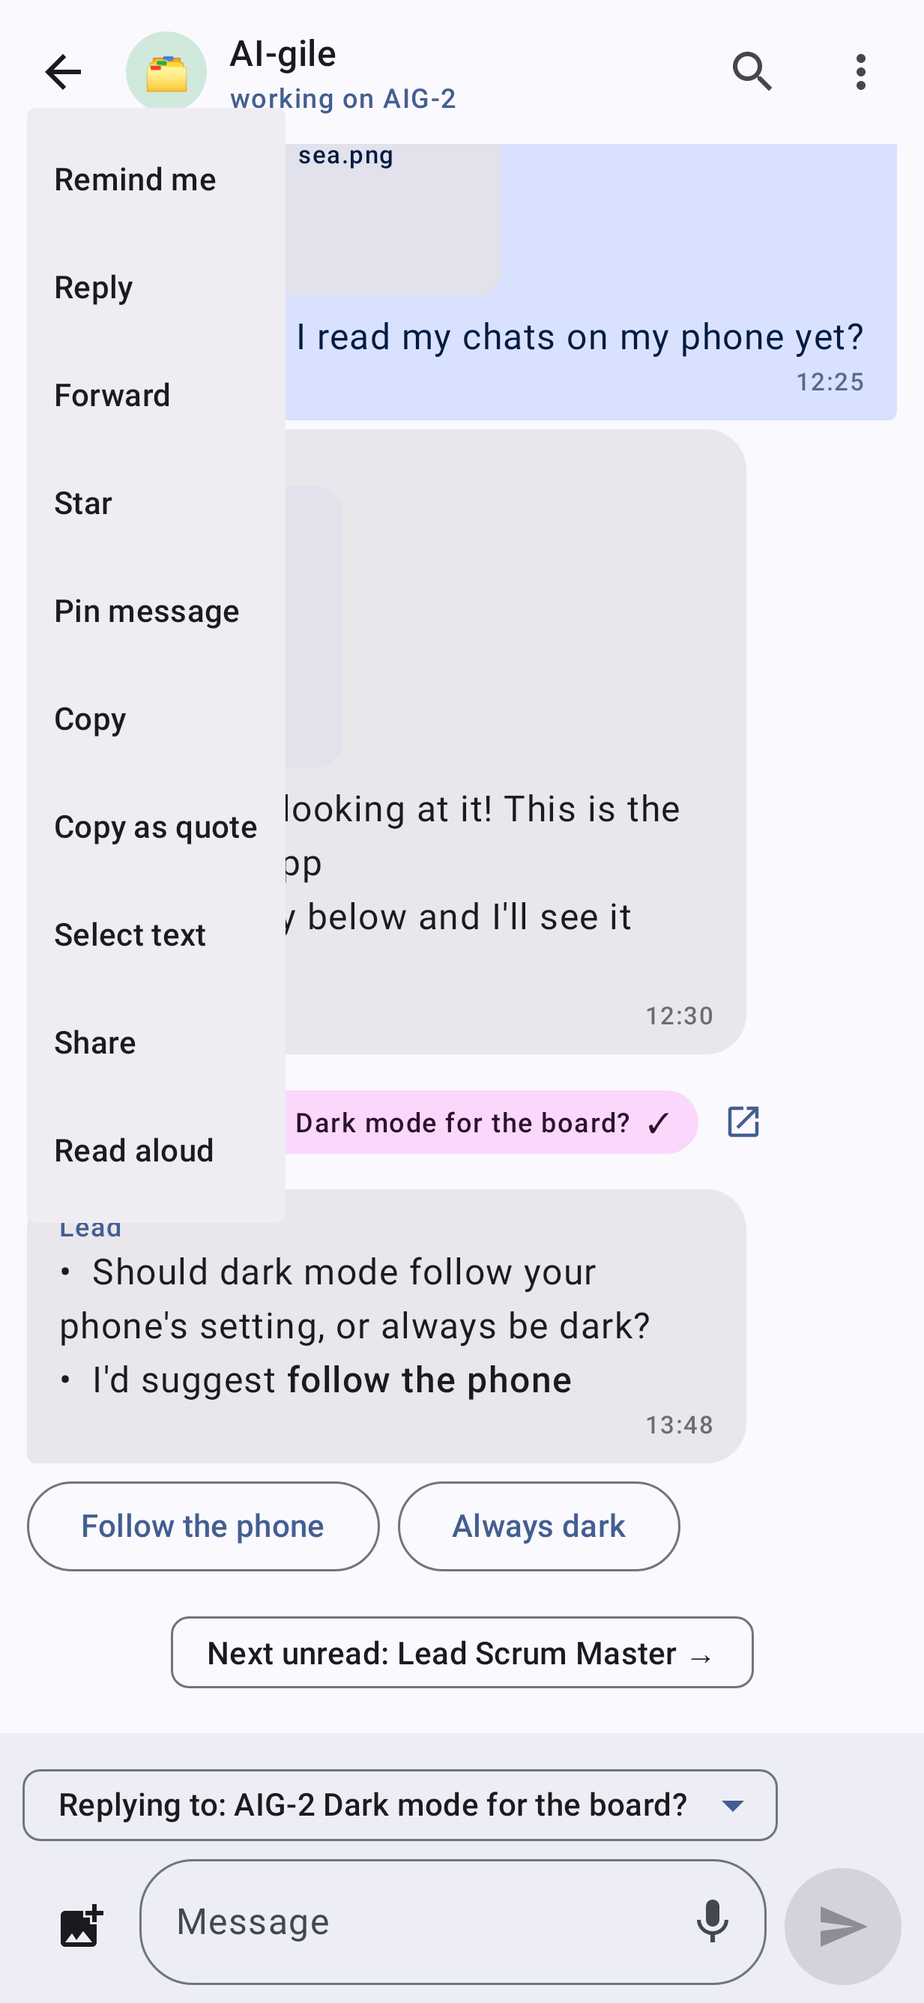
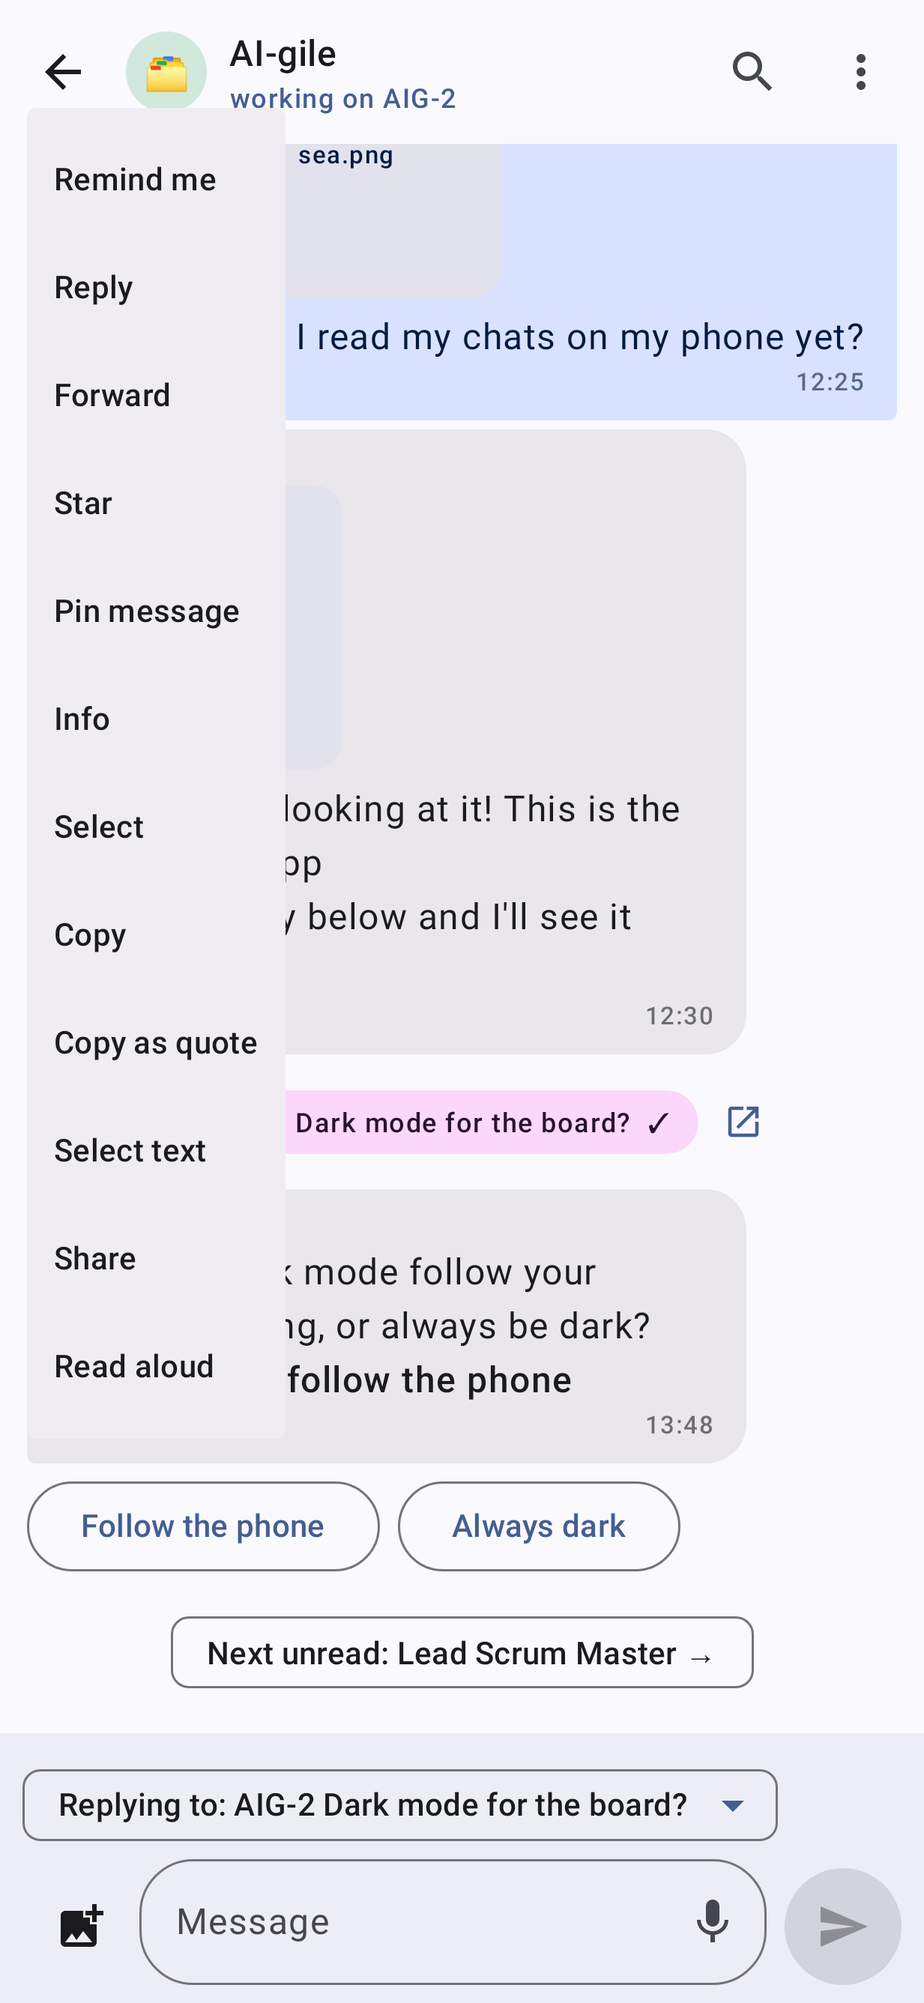
Chat: select several messages to copy, share or star (AII-371)

diff --git a/app/src/main/java/com/smizflark/aigile/messenger/ui/ChatBubble.kt b/app/src/main/java/com/smizflark/aigile/messenger/ui/ChatBubble.kt
@@ -139,7 +139,7 @@ import androidx.compose.ui.platform.LocalView
 
 @OptIn(ExperimentalLayoutApi::class, ExperimentalFoundationApi::class)
 @Composable
-internal fun MessageBubble(r: Row.Msg, ref: ChatRef, repo: Repo, mark: Int, onReply: (Bubble) -> Unit, onForward: (Bubble) -> Unit, cards: Set<String>, onCard: (String) -> Unit, onOption: (String) -> Unit, onRetry: (Pending) -> Unit, onDiscard: (Pending) -> Unit, onQuote: (String) -> Unit = {}, starred: Boolean = false, onStar: (() -> Unit)? = null, onSendNow: (Pending) -> Unit = {}, onEdit: (Pending) -> Unit = {}, onMoveLater: (Pending, java.time.Instant) -> Unit = { _, _ -> }, onRepeat: (Pending, String?) -> Unit = { _, _ -> }, remindAt: Long? = null, onReminded: () -> Unit = {}, onEditMsg: ((Bubble, String) -> Unit)? = null, onDeleteMsg: ((Bubble) -> Unit)? = null, onReact: ((Bubble, String) -> Unit)? = null, pinned: Boolean = false, onPin: (() -> Unit)? = null) {
+internal fun MessageBubble(r: Row.Msg, ref: ChatRef, repo: Repo, mark: Int, onReply: (Bubble) -> Unit, onForward: (Bubble) -> Unit, cards: Set<String>, onCard: (String) -> Unit, onOption: (String) -> Unit, onRetry: (Pending) -> Unit, onDiscard: (Pending) -> Unit, onQuote: (String) -> Unit = {}, starred: Boolean = false, onStar: (() -> Unit)? = null, onSendNow: (Pending) -> Unit = {}, onEdit: (Pending) -> Unit = {}, onMoveLater: (Pending, java.time.Instant) -> Unit = { _, _ -> }, onRepeat: (Pending, String?) -> Unit = { _, _ -> }, remindAt: Long? = null, onReminded: () -> Unit = {}, onEditMsg: ((Bubble, String) -> Unit)? = null, onDeleteMsg: ((Bubble) -> Unit)? = null, onReact: ((Bubble, String) -> Unit)? = null, pinned: Boolean = false, onPin: (() -> Unit)? = null, selectMode: Boolean = false, picked: Boolean = false, onToggle: () -> Unit = {}, onPick: (() -> Unit)? = null) {
     val b = r.b
     val cs = MaterialTheme.colorScheme
     val bg = when {
@@ -160,7 +160,7 @@ internal fun MessageBubble(r: Row.Msg, ref: ChatRef, repo: Repo, mark: Int, onRe
     val clipboard = LocalClipboardManager.current
     val ctx = LocalContext.current
     // AII-101: drag a message to the right to reply to it; it springs back.
-    val canReply = b.state == SendState.SENT && !b.unverified && !b.deleted
+    val canReply = b.state == SendState.SENT && !b.unverified && !b.deleted && !selectMode
     // AII-324: Edit and Delete on my own friend lines, once the board has given the line an id.
     val ownLine = ref.kind == Kind.FRIEND && b.mine && b.id != null && b.state == SendState.SENT && !b.deleted && !b.unverified
     var editing by remember { mutableStateOf(false) }
@@ -170,7 +170,7 @@ internal fun MessageBubble(r: Row.Msg, ref: ChatRef, repo: Repo, mark: Int, onRe
     val reach = with(LocalDensity.current) { SWIPE_REPLY.toPx() }
     val drag = remember { Animatable(0f) }
     val scope = rememberCoroutineScope()
-    Box(Modifier.fillMaxWidth()) {
+    Box(Modifier.fillMaxWidth().then(if (picked) Modifier.background(cs.primary.copy(alpha = 0.15f)) else Modifier)) {   // AII-371: picked messages are tinted
     if (drag.value > 0f) Icon(Icons.AutoMirrored.Filled.Reply, null, Modifier.align(Alignment.CenterStart).padding(start = 16.dp)
         .graphicsLayer { alpha = replyProgress(drag.value, reach) }, tint = cs.primary)
     Column(Modifier.fillMaxWidth().offset { IntOffset(drag.value.roundToInt(), 0) }
@@ -233,11 +233,12 @@ internal fun MessageBubble(r: Row.Msg, ref: ChatRef, repo: Repo, mark: Int, onRe
         val bigEmoji = remember(b.text, b.pics) { if (b.pics.isEmpty()) bigEmojiCount(b.text) else 0 } > 0   // AII-364: only 1 to 3 emoji shows big, no bubble
         Surface(
             color = if (bigEmoji) androidx.compose.ui.graphics.Color.Transparent else bg,
-            border = when (mark) { 2 -> BorderStroke(3.dp, cs.tertiary); 1 -> BorderStroke(1.5.dp, cs.tertiary.copy(alpha = 0.6f)); else -> null },   // AII-78: find matches
+            border = if (picked) BorderStroke(2.dp, cs.primary) else when (mark) { 2 -> BorderStroke(3.dp, cs.tertiary); 1 -> BorderStroke(1.5.dp, cs.tertiary.copy(alpha = 0.6f)); else -> null },   // AII-78: find matches
             shape = RoundedCornerShape(18.dp, 18.dp, if (b.mine) 4.dp else 18.dp, if (b.mine) 18.dp else 4.dp),
             modifier = Modifier.widthIn(max = 320.dp).semantics(mergeDescendants = true) {}.testTag(if (b.mine) "mine" else "theirs")
-                .combinedClickable(onClick = { if (!Appearance.showTimes) showTime = !showTime }, onLongClick = { if (!b.deleted) menu = true },
-                    onDoubleClick = if (onStar != null && b.state == SendState.SENT && !b.unverified) { {
+                .combinedClickable(onClick = { if (selectMode) onToggle() else if (!Appearance.showTimes) showTime = !showTime },
+                    onLongClick = { if (selectMode) onToggle() else if (!b.deleted) menu = true },   // AII-371: in select mode taps pick and the hold menu stays shut
+                    onDoubleClick = if (!selectMode && onStar != null && b.state == SendState.SENT && !b.unverified) { {
                         if (!starred) scope.launch { pop.snapTo(0f); pop.animateTo(1f, tween(450)) }
                         onStar()
                     } } else null),
@@ -249,7 +250,7 @@ internal fun MessageBubble(r: Row.Msg, ref: ChatRef, repo: Repo, mark: Int, onRe
                 onEdit = if (ownLine && onEditMsg != null) { { editing = true } } else null,
                 onDelete = if (ownLine && onDeleteMsg != null) { { deleting = true } } else null,
                 onReact = if (ref.kind == Kind.FRIEND && b.id != null && b.state == SendState.SENT && !b.deleted && !b.unverified && onReact != null) { e -> onReact(b, e) } else null,
-                pinned = pinned, onPin = onPin, onInfo = { info = true })
+                pinned = pinned, onPin = onPin, onInfo = { info = true }, onPick = onPick)
             if (info) MessageInfoDialog(b) { info = false }
             if (editing) EditMessageDialog(Quote.split(b.text).second, onSave = { editing = false; onEditMsg?.invoke(b, it) }, onDismiss = { editing = false })
             if (deleting) DeleteMessageDialog(onConfirm = { deleting = false; onDeleteMsg?.invoke(b) }, onDismiss = { deleting = false })
@@ -301,7 +302,7 @@ internal fun MessageBubble(r: Row.Msg, ref: ChatRef, repo: Repo, mark: Int, onRe
                         SendState.SENDING -> stringResource(R.string.sending)
                         SendState.FAILED -> stringResource(R.string.not_sent)
                         SendState.LATER -> stringResource(R.string.sends_at, sendTime(b.at)) + if (laterP?.repeat != null) " 🔁" else ""   // AII-174
-                        SendState.SENT -> (if (starred) "★ " else "") + (if (b.edited != null) stringResource(R.string.edited_time, clock(b.at)) else clock(b.at)) + if (ref.kind == Kind.FRIEND && !b.unverified) "  🔒" else ""
+                        SendState.SENT -> (if (picked) "✓ " else "") + (if (starred) "★ " else "") + (if (b.edited != null) stringResource(R.string.edited_time, clock(b.at)) else clock(b.at)) + if (ref.kind == Kind.FRIEND && !b.unverified) "  🔒" else ""
                     },
                     style = MaterialTheme.typography.labelSmall,
                     color = if (b.state == SendState.FAILED) cs.error else fg.copy(alpha = 0.6f),

diff --git a/app/src/main/java/com/smizflark/aigile/messenger/ui/ChatScreen.kt b/app/src/main/java/com/smizflark/aigile/messenger/ui/ChatScreen.kt
@@ -54,6 +54,10 @@ import com.smizflark.aigile.messenger.data.Quote
 import com.smizflark.aigile.messenger.data.Repo
 import com.smizflark.aigile.messenger.data.PinnedMsgs
 import com.smizflark.aigile.messenger.data.Stars
+import com.smizflark.aigile.messenger.data.Selection
+import com.smizflark.aigile.messenger.data.SendState
+import androidx.compose.ui.platform.LocalClipboardManager
+import androidx.compose.ui.text.AnnotatedString
 import kotlinx.coroutines.delay
 import kotlinx.coroutines.launch
 import java.io.File
@@ -99,6 +103,9 @@ fun ChatScreen(repo: Repo, ref: ChatRef, onBack: () -> Unit, focus: String? = nu
     var clearedAt by remember(ref.key) { mutableStateOf(repo.store.cleared()[ref.key]) }   // AII-363: Clear chat for me, this phone only
     var clearAsk by remember { mutableStateOf(false) }
     var pinShown by remember { mutableStateOf(0) }   // AII-339: which pin the bar shows
+    var selPicked by remember(ref.key) { mutableStateOf(emptySet<String>()) }   // AII-371: select several messages; none picked = not selecting
+    var selectMode by remember(ref.key) { mutableStateOf(false) }
+    androidx.activity.compose.BackHandler(enabled = selectMode) { selectMode = false; selPicked = emptySet() }
     val scope = rememberCoroutineScope()
     val list = rememberLazyListState()
     var finding by rememberSaveable { mutableStateOf(false) }   // AII-78: the find bar
@@ -293,11 +300,38 @@ fun ChatScreen(repo: Repo, ref: ChatRef, onBack: () -> Unit, focus: String? = nu
     // AII-193: Go to date lands on that day's day row, else the next later day with messages, else the newest.
     var goToDate by remember { mutableStateOf(false) }
     if (goToDate) GoToDateHost(items, list, scope) { goToDate = false }   // ChatScroll.kt
+    /* ---------- select several messages (AII-371) ---------- */
+    val selColors = MaterialTheme.colorScheme
+    val selClipboard = LocalClipboardManager.current
+    fun leaveSelect() { selectMode = false; selPicked = emptySet() }
+    fun pickedText() = Selection.text(items.mapNotNull { (it as? Row.Msg)?.takeIf { m -> m.pending == null }?.b }, selPicked, ref.name, owner, { fullTime(it) },
+        plain = { b -> Markdown.plain(Markdown.render(b.text, selColors.surfaceVariant, selColors.primary)) })
     /* ---------- screen ---------- */
     Scaffold(
         snackbarHost = { SnackbarHost(snack, Modifier.testTag("snack")) },
         topBar = {
-            ChatTopBar(ref, repo, focus, focusBubble, working, workingOn, muted, onBack = onBack, onDetails = { details = true },
+            if (selectMode) SelectTopBar(selPicked.size, onLeave = { leaveSelect() },
+                onCopy = {
+                    selClipboard.setText(AnnotatedString(pickedText()))
+                    if (Build.VERSION.SDK_INT < 33) Toast.makeText(view.context, R.string.copied, Toast.LENGTH_SHORT).show()
+                    leaveSelect()
+                },
+                onShare = {
+                    val send = android.content.Intent(android.content.Intent.ACTION_SEND).setType("text/plain").putExtra(android.content.Intent.EXTRA_TEXT, pickedText())
+                    runCatching { view.context.startActivity(android.content.Intent.createChooser(send, null)) }
+                    leaveSelect()
+                },
+                onStar = {
+                    // Stars the picked ones that have no star yet, as the single Star does (also on the board).
+                    items.forEach { r ->
+                        if (r is Row.Msg && r.pending == null && r.b.key in selPicked && !Stars.has(stars, ref.key, r.b.key)) {
+                            val s = Stars.of(ref.key, r.b)
+                            stars = Stars.toggle(stars, s); scope.launch { repo.setStar(ref, s, true) }
+                        }
+                    }
+                    leaveSelect()
+                })
+            else ChatTopBar(ref, repo, focus, focusBubble, working, workingOn, muted, onBack = onBack, onDetails = { details = true },
                 onFind = { finding = true }, onMute = { if (muted) { muted = false; repo.store.setMuted(ref.key, false) } else muteAsk = true },
                 onGoToDate = { goToDate = true }, onMyLast = { jumpToMine() }, onOpenCard = onOpenCard, silent = silent,
                 onAddHome = { if (!com.smizflark.aigile.messenger.data.HomeShortcut.pin(homeCtx, ref.key, ref.name)) Toast.makeText(homeCtx, homeCtx.getString(R.string.add_to_home_unsupported), Toast.LENGTH_SHORT).show() },
@@ -357,6 +391,9 @@ fun ChatScreen(repo: Repo, ref: ChatRef, onBack: () -> Unit, focus: String? = nu
                                     val s = Stars.of(ref.key, r.b); val on = !Stars.has(stars, s.chat, s.key)
                                     stars = Stars.toggle(stars, s); scope.launch { repo.setStar(ref, s, on) }   // AII-141: on the board too
                                 } } else null,
+                                selectMode = selectMode, picked = r.b.key in selPicked,
+                                onToggle = if (r.pending == null) { { selPicked = Selection.toggle(selPicked, r.b.key); if (selPicked.isEmpty()) selectMode = false } } else ({}),
+                                onPick = if (r.pending == null && r.b.state == SendState.SENT && !r.b.unverified) { { selectMode = true; selPicked = setOf(r.b.key) } } else null,
                                 pinned = PinnedMsgs.has(pins, ref.key, r.b.key),
                                 onPin = if (r.pending == null) { {
                                     pins = PinnedMsgs.toggle(pins, PinnedMsgs.of(ref.key, r.b, com.smizflark.aigile.messenger.data.Now.millis())); repo.store.setPinnedMsgs(pins)

diff --git a/app/src/main/java/com/smizflark/aigile/messenger/ui/ChatTopBar.kt b/app/src/main/java/com/smizflark/aigile/messenger/ui/ChatTopBar.kt
@@ -13,6 +13,9 @@ import androidx.compose.material.icons.filled.DateRange
 import androidx.compose.material.icons.filled.Notifications
 import androidx.compose.material.icons.filled.NotificationsOff
 import androidx.compose.material.icons.filled.Home
+import androidx.compose.material.icons.filled.ContentCopy
+import androidx.compose.material.icons.filled.Share
+import androidx.compose.material.icons.filled.Star
 import androidx.compose.material.icons.filled.Search
 import androidx.compose.material3.DropdownMenu
 import androidx.compose.material3.DropdownMenuItem
@@ -107,6 +110,21 @@ internal fun ChatTopBar(
                     modifier = Modifier.testTag("add-home"),
                 )
             }
+        },
+    )
+}
+
+/** AII-371: the top bar while several messages are being picked: leave, how many, and Copy, Share, Star for them. */
+@OptIn(ExperimentalMaterial3Api::class)
+@Composable
+internal fun SelectTopBar(count: Int, onLeave: () -> Unit, onCopy: () -> Unit, onShare: () -> Unit, onStar: () -> Unit) {
+    TopAppBar(
+        navigationIcon = { IconButton(onClick = onLeave, modifier = Modifier.testTag("select-leave")) { Icon(Icons.Default.Close, stringResource(R.string.leave_select)) } },
+        title = { Text(stringResource(R.string.n_selected, count), modifier = Modifier.testTag("select-count")) },
+        actions = {
+            IconButton(onClick = onCopy, modifier = Modifier.testTag("select-copy")) { Icon(Icons.Default.ContentCopy, stringResource(R.string.copy)) }
+            IconButton(onClick = onShare, modifier = Modifier.testTag("select-share")) { Icon(Icons.Default.Share, stringResource(R.string.share)) }
+            IconButton(onClick = onStar, modifier = Modifier.testTag("select-star")) { Icon(Icons.Default.Star, stringResource(R.string.star)) }
         },
     )
 }

diff --git a/app/src/main/java/com/smizflark/aigile/messenger/ui/BubbleMenu.kt b/app/src/main/java/com/smizflark/aigile/messenger/ui/BubbleMenu.kt
@@ -135,7 +135,7 @@ internal fun MessageInfoDialog(b: Bubble, onDismiss: () -> Unit) {
 @Composable
 internal fun HoldMenu(expanded: Boolean, onDismiss: () -> Unit, b: Bubble, shown: AnnotatedString, starred: Boolean, onStar: (() -> Unit)?,
                       onReply: (Bubble) -> Unit, onForward: (Bubble) -> Unit, onRemind: () -> Unit, onSelect: () -> Unit, onEdit: (() -> Unit)? = null, onDelete: (() -> Unit)? = null, onReact: ((String) -> Unit)? = null,
-                      pinned: Boolean = false, onPin: (() -> Unit)? = null, onInfo: (() -> Unit)? = null) {
+                      pinned: Boolean = false, onPin: (() -> Unit)? = null, onInfo: (() -> Unit)? = null, onPick: (() -> Unit)? = null) {
     val ctx = LocalContext.current
     val clipboard = LocalClipboardManager.current
     DropdownMenu(expanded = expanded, onDismissRequest = onDismiss) {
@@ -163,6 +163,8 @@ internal fun HoldMenu(expanded: Boolean, onDismiss: () -> Unit, b: Bubble, shown
             modifier = Modifier.testTag("pin"), onClick = { onDismiss(); onPin() })
         // AII-372: when it was sent and edited.
         if (onInfo != null && b.at.isNotBlank()) DropdownMenuItem(text = { Text(stringResource(R.string.info)) }, modifier = Modifier.testTag("info"), onClick = { onDismiss(); onInfo() })
+        // AII-371: pick this message and more, to copy, share or star together.
+        if (onPick != null) DropdownMenuItem(text = { Text(stringResource(R.string.select_message)) }, modifier = Modifier.testTag("select-msg"), onClick = { onDismiss(); onPick() })
         DropdownMenuItem(text = { Text(stringResource(R.string.copy)) }, modifier = Modifier.testTag("copy"), onClick = {
             onDismiss()
             clipboard.setText(AnnotatedString(Markdown.plain(shown)))

diff --git a/app/src/test/java/com/smizflark/aigile/messenger/SelectionTest.kt b/app/src/test/java/com/smizflark/aigile/messenger/SelectionTest.kt
@@ -1,0 +1,36 @@
+package com.smizflark.aigile.messenger
+
+import com.smizflark.aigile.messenger.data.Bubble
+import com.smizflark.aigile.messenger.data.Pic
+import com.smizflark.aigile.messenger.data.Selection
+import org.junit.Assert.assertEquals
+import org.junit.Test
+
+/** AII-371: picking several messages and their joined text. */
+class SelectionTest {
+    private val all = listOf(
+        Bubble("1", "Lead", "Ready?", "t1", false),
+        Bubble("2", "", "Yes", "t2", true, pics = listOf(Pic("http://b/x/sea.png", "sea.png"))),
+        Bubble("3", "", "Done", "t3", false),
+    )
+
+    @Test fun toggleAddsThenRemoves() {
+        val one = Selection.toggle(emptySet(), "2")
+        assertEquals(setOf("2"), one)
+        assertEquals(setOf("2", "3"), Selection.toggle(one, "3"))
+        assertEquals(emptySet<String>(), Selection.toggle(one, "2"))
+    }
+
+    @Test fun textIsOldestFirstWhateverTheOrderPicked() {
+        assertEquals("Rich, T2:\n[sea.png]\nYes\n\nAI-gile, T3:\nDone",
+            Selection.text(all, linkedSetOf("3", "2"), "AI-gile", "Rich", { it.uppercase() }))
+    }
+
+    @Test fun nothingPickedIsEmpty() {
+        assertEquals("", Selection.text(all, emptySet(), "AI-gile", "Rich", { it }))
+    }
+
+    @Test fun usesTheReadableTextGiven() {
+        assertEquals("Lead, t1:\nREADY?", Selection.text(all, setOf("1"), "AI-gile", "Rich", { it }, plain = { it.text.uppercase() }))
+    }
+}

diff --git a/app/src/main/java/com/smizflark/aigile/messenger/data/Selection.kt b/app/src/main/java/com/smizflark/aigile/messenger/data/Selection.kt
@@ -1,0 +1,19 @@
+package com.smizflark.aigile.messenger.data
+
+/** Select several messages (AII-371): which are picked, and their text for Copy and Share. Pure, so it is unit tested. */
+object Selection {
+    /** Picks the message, or takes it off if it was picked. */
+    fun toggle(picked: Set<String>, key: String): Set<String> = if (key in picked) picked - key else picked + key
+
+    /**
+     * The picked messages as plain text, oldest first whatever order they were picked in, in Transcript's style:
+     * "who, time:" then the text, a blank line between. [bubbles] is the chat's messages; [plain] gives the text as read (markdown rendered).
+     */
+    fun text(bubbles: List<Bubble>, picked: Set<String>, chat: String, owner: String, time: (String) -> String, plain: (Bubble) -> String = { it.text }): String =
+        bubbles.filter { it.key in picked }.sortedBy { it.at }.joinToString("\n\n") { b ->
+            val who = if (b.mine) owner else b.author.ifBlank { chat }
+            val pics = b.pics.map { "[${it.name.ifBlank { it.path.substringAfterLast('/') }}]" }
+            val body = (pics + plain(b).trim()).filter { it.isNotBlank() }.joinToString("\n")
+            "$who, ${time(b.at)}:\n$body"
+        }
+}

diff --git a/app/src/test/java/com/smizflark/aigile/messenger/screens/ChatShotTest.kt b/app/src/test/java/com/smizflark/aigile/messenger/screens/ChatShotTest.kt
@@ -171,6 +171,17 @@ class ChatShotTest : ShotBase() {
         rule.onRoot().captureRoboImage("../docs/shots/chat_quote_jump_light.png")
         rule.mainClock.autoAdvance = true
     }
+    /** AII-371: hold a message, Select, tap a second one: select mode with 2 picked. */
+    @Test fun selectModeLight() {
+        prime(lead()); RuntimeEnvironment.setQualifiers("+notnight")
+        rule.setContent { MessengerTheme { ChatScreen(repo, lead(), onBack = {}) } }
+        rule.onAllNodesWithTag("theirs").onLast().performTouchInput { longClick() }
+        rule.onNodeWithTag("select-msg").performClick()
+        rule.onAllNodesWithTag("mine").onLast().performClick()
+        rule.waitForIdle()
+        rule.onNodeWithTag("select-count").assertTextEquals("2 selected")
+        rule.onRoot().captureRoboImage("../docs/shots/chat_select_light.png")
+    }
     /** AII-127: hold a message, Select text: the message opens on its own, ready to select. */
     @Test fun selectTextLight() {
         prime(lead()); RuntimeEnvironment.setQualifiers("+notnight")

diff --git a/docs/CODEMAP.md b/docs/CODEMAP.md
@@ -52,6 +52,7 @@ Kotlin under `app/src/main/java/com/smizflark/aigile/messenger/` (paths below ar
 - data/Search.kt: search results (chats and messages); Pictures / Links / Files (AII-267, `files`, non-picture files as in ChatInfo.isFile; AII-270 snippet = "📎 name" via `fileNames`) / Starred / Last 7 days (AII-258, `last7`) (AII-246, `starred` = the stars) filters list matching messages newest first (AII-192); snippets show markdown as read and carry the found-word ranges to bold (AII-195).
 - data/Share.kt: text shared in from other apps. Pictures shared in (AII-338): MainActivity sharedImages / sharedPics, New message shows them (PickedPictures) and sends through the outbox.
 - data/Source.kt: chat source, the real board or the demo.
+- data/Selection.kt: select several messages (AII-371): toggle and the picked messages' text, oldest first in Transcript style; hold menu Select (ui/BubbleMenu.kt), tinted picked bubbles (ui/ChatBubble.kt), SelectTopBar with Copy / Share / Star (ui/ChatTopBar.kt), state in ui/ChatScreen.kt; shot selectModeLight.
 - data/Stars.kt: starred messages (AII-138), listed in the chat details; lead chats kept in step with the board (AII-141, Repo syncStars; Starred refreshes them on open, AII-162).
 - data/PinnedMsgs.kt: pinned messages (AII-339), this phone only (Store pinnedMsgs); Pin / Unpin in the bubble hold menu, the pinned bar under the chat's top bar (PinnedBar in ui/ChatParts.kt; tap jumps and cycles "1 of N", X unpins). Not Pins.kt, which is pinned chats.
 - data/SavedPictures.kt: size of the saved pictures and which files Clear may delete, never ones waiting in the outbox (AII-215).
